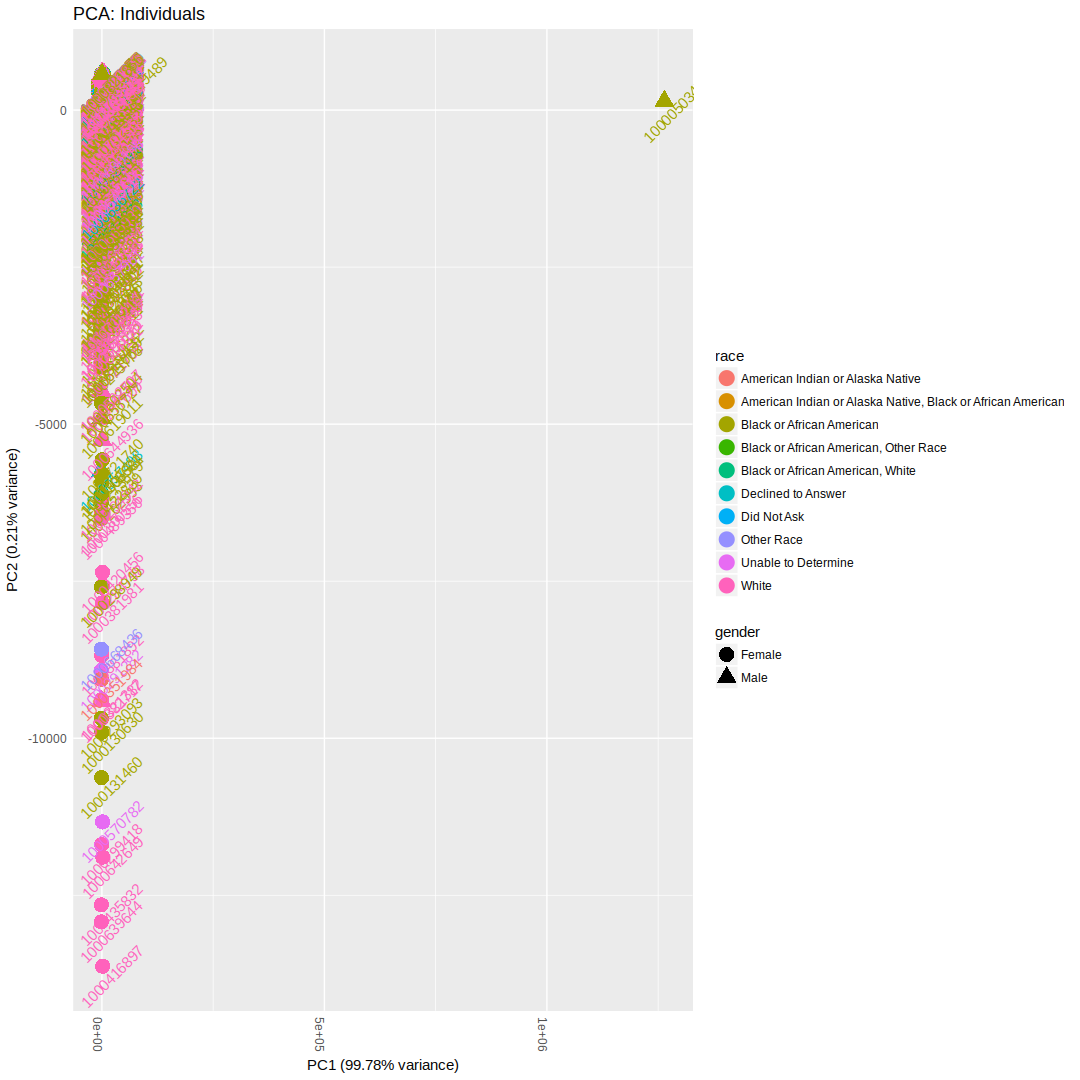
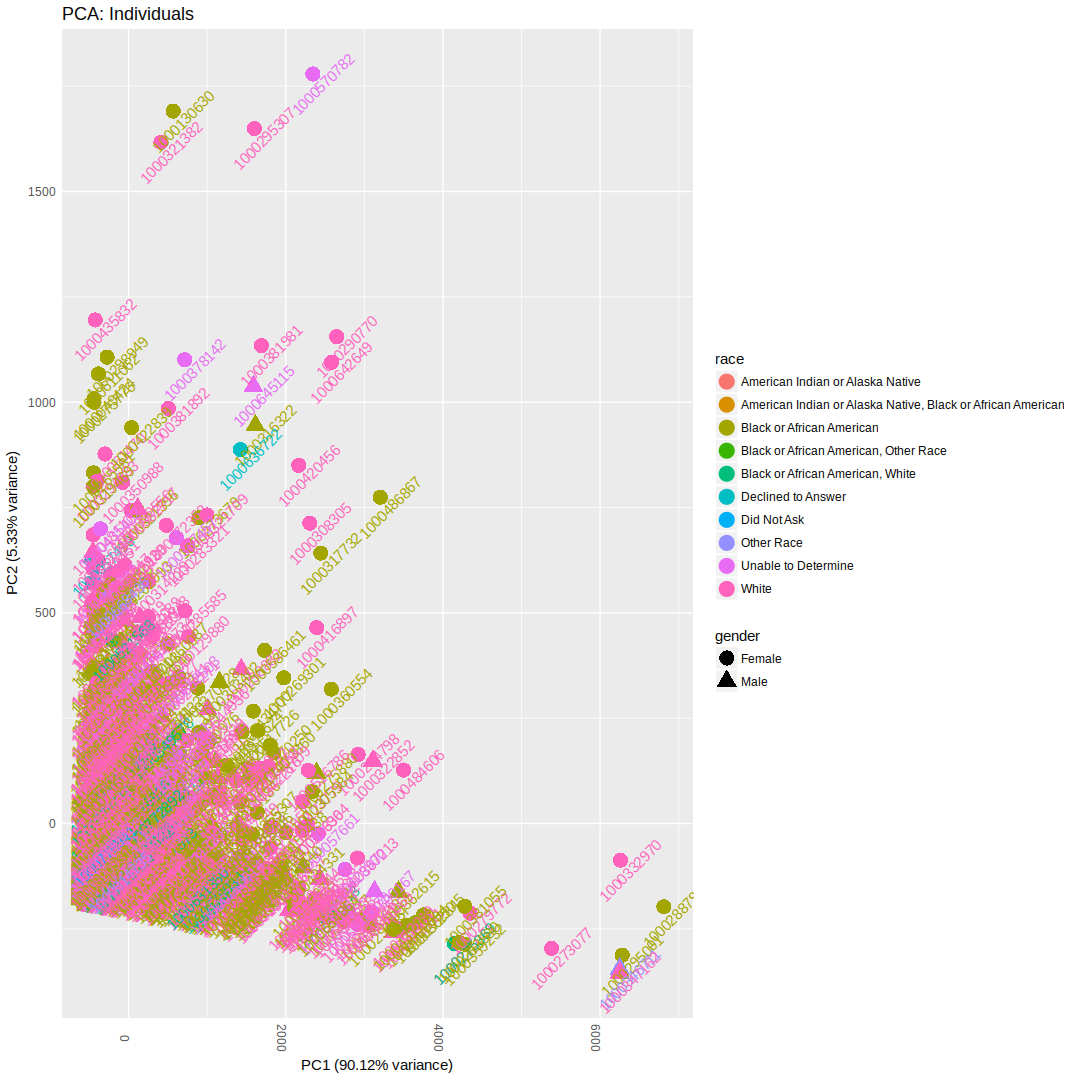
Removed another outlier and dropped redundant column

diff --git a/README.md b/README.md
@@ -28,39 +28,10 @@ Data Preparation
 ``` r
 library('readr')
 library('dplyr')
-```
-
-    ## 
-    ## Attaching package: 'dplyr'
-
-    ## The following objects are masked from 'package:stats':
-    ## 
-    ##     filter, lag
-
-    ## The following objects are masked from 'package:base':
-    ## 
-    ##     intersect, setdiff, setequal, union
-
-``` r
 library('ggplot2')
 library('gplots')
-```
-
-    ## 
-    ## Attaching package: 'gplots'
-
-    ## The following object is masked from 'package:stats':
-    ## 
-    ##     lowess
-
-``` r
 library('knitr')
 library('venneuler')
-```
-
-    ## Loading required package: rJava
-
-``` r
 library('viridis')
 
 opts_chunk$set(fig.width=1080/96,
@@ -401,9 +372,9 @@ Combine Datasets
 bhs_collapsed <- bhs %>%
     group_by(mci) %>%
     summarize(num_visits=n(),
-              num_unique_providers=n_distinct(PRVDR_NAME),
+              num_unique_providers=n_distinct(PRVDR_NAME))
               #county_tot=sum(CNTY_TOT),
-              total_units=sum(TOT_UNITS))
+              #total_units=sum(TOT_UNITS))
 
 # drop INVLV and birthdate columns
 cyf_collapsed <- cyf %>% 
@@ -431,7 +402,8 @@ dat <- dat[complete.cases(dat),]
 # Drop outliers detected in PCA plot
 # 100050347 - min_stay = 730488
 # 100308371 - total_units 23,468
-dat <- dat[!dat$mci %in% c(100050347, 1000308371),]
+# 1000049489 - min_stay 32,872
+dat <- dat[!dat$mci %in% c(1000050347, 1000308371, 1000049489),]
 ```
 
 Variable correlation heatmap
@@ -480,7 +452,6 @@ df <- data.frame(id=dat[,'mci'],
 plt <- ggplot(df, aes(pc1, pc2, color=race, shape=gender)) +
     geom_point(stat="identity",size=5) +
     geom_text(aes(label=id), angle=45, size=4, vjust=2) +
-    #scale_shape_manual(values=1:nlevels(batch)) +
     xlab(xl) + ylab(yl) +
     ggtitle(sprintf("PCA: Individuals")) +
     theme(axis.ticks=element_blank(), axis.text.x=element_text(angle=-90))
@@ -488,6 +459,10 @@ plot(plt)
 ```
 
 ![](README_files/figure-markdown_github/individual_pca-1.png)
+
+``` r
+write.csv(dat, file='data/combined/combined_v1.0.csv')
+```
 
 System Info
 ===========
